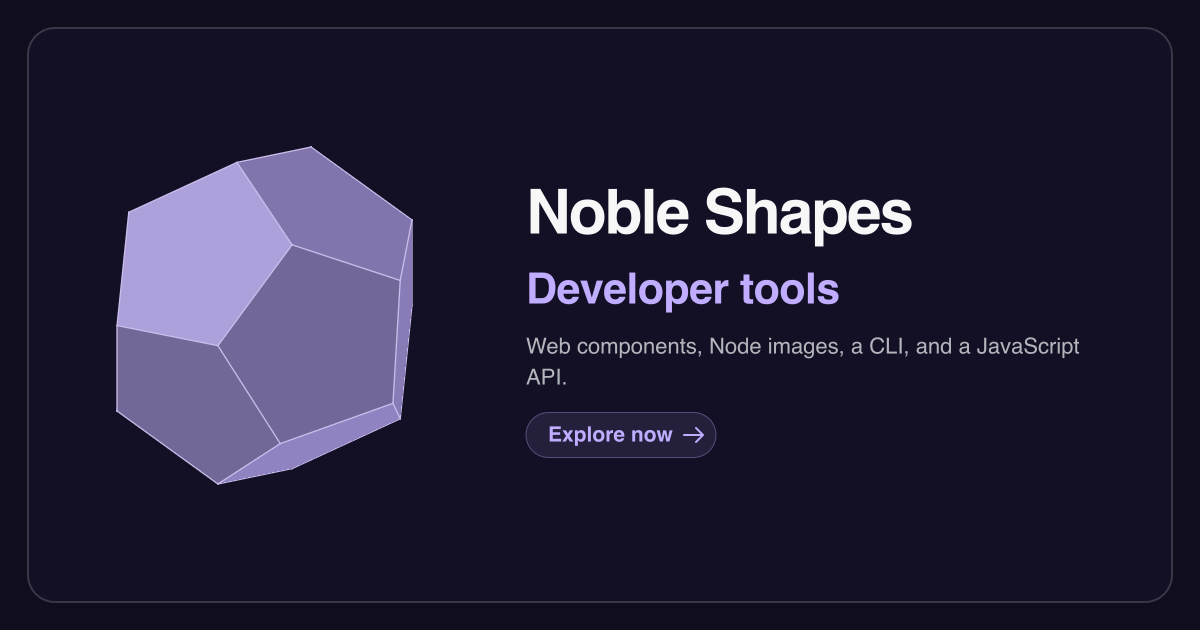
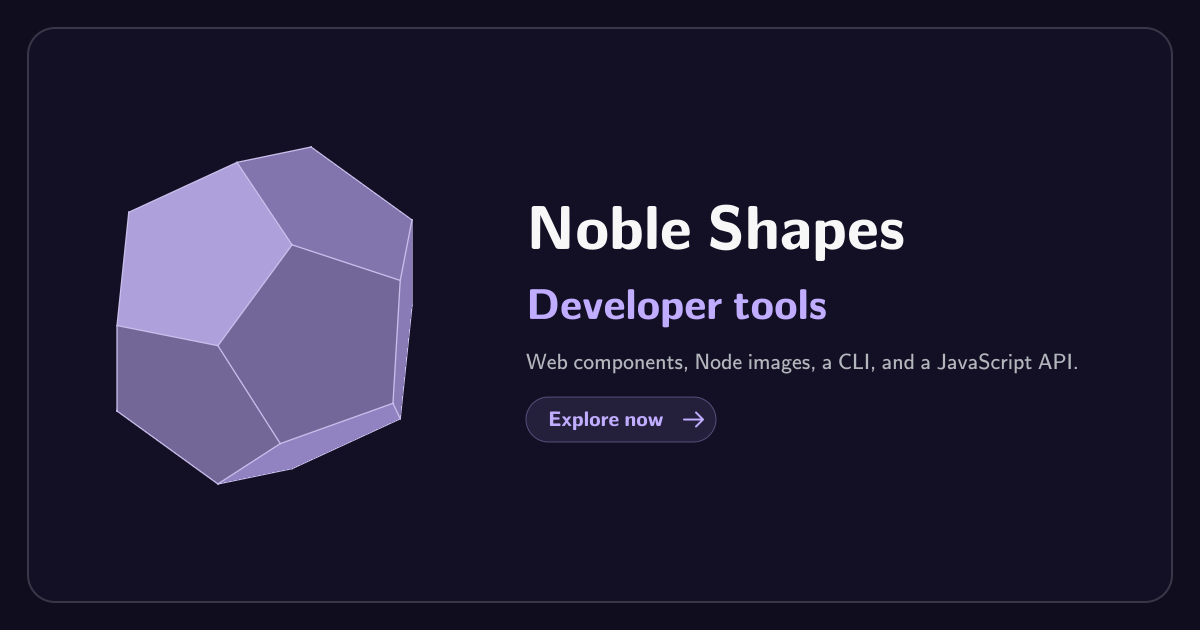
Render social image text as vector paths

Changed region(s): [[0.4317, 0.3016, 0.7708, 0.5127], [0.4317, 0.5429, 0.8942, 0.7238]]

diff --git a/apps/workbench/src/server/og-card.ts b/apps/workbench/src/server/og-card.ts
@@ -1,4 +1,5 @@
 import sharp from "sharp";
+import opentype, { type Font } from "opentype.js";
 import { SHAPES } from "@noble-shapes/core";
 import { renderPng } from "@noble-shapes/node";
 import { DEFAULT_DESIGN_OPTIONS, PALETTES, type DesignOptions } from "@noble-shapes/render";
@@ -6,6 +7,12 @@ import { OG_FONT_BOLD, OG_FONT_REGULAR } from "./og-fonts.ts";
 
 const WIDTH = 1200;
 const HEIGHT = 630;
+function parseFont(data: string): Font {
+  const bytes = Buffer.from(data, "base64");
+  return opentype.parse(bytes.buffer.slice(bytes.byteOffset, bytes.byteOffset + bytes.byteLength));
+}
+const regularFont = parseFont(OG_FONT_REGULAR);
+const boldFont = parseFont(OG_FONT_BOLD);
 export const PLAYGROUND_DESCRIPTION = "A playground for exploring finite and infinite noble polyhedra.";
 
 export type PageCard = "default" | "create" | "showcase" | "research" | "documentation";
@@ -40,25 +47,29 @@ function isLight(hex: string): boolean {
   return red! * 0.2126 + green! * 0.7152 + blue! * 0.0722 > 0.35;
 }
 
-function textWidth(value: string, fontSize: number): number {
-  return [...value].reduce((width, character) => width + fontSize * (
-    character === " " ? 0.31 : /[ilI.,'!]/.test(character) ? 0.29 : /[MWmw]/.test(character) ? 0.83 : /[A-Z]/.test(character) ? 0.67 : 0.53
-  ), 0);
-}
-
-function wrapText(value: string, fontSize: number, maxWidth: number): string[] {
+function wrapText(value: string, font: Font, fontSize: number, maxWidth: number): string[] {
   const lines: string[] = [];
   for (const word of value.split(/\s+/)) {
     const last = lines.length - 1;
     const candidate = last < 0 ? word : `${lines[last]} ${word}`;
-    if (last >= 0 && textWidth(candidate, fontSize) <= maxWidth) lines[last] = candidate;
+    if (last >= 0 && font.getAdvanceWidth(candidate, fontSize) <= maxWidth) lines[last] = candidate;
     else lines.push(word);
   }
   return lines;
 }
 
-function svgLines(lines: string[], x: number, y: number, lineHeight: number): string {
-  return lines.map((line, index) => `<tspan x="${x}" y="${y + index * lineHeight}">${escapeXml(line)}</tspan>`).join("");
+function svgText(value: string, font: Font, size: number, x: number, y: number, color: string): string {
+  return font.getPaths(value, x, y, size)
+    .map(path => {
+      const data = path.toPathData(2);
+      if (data.includes("NaN")) throw new Error("Open Graph font produced an invalid glyph path");
+      return `<path d="${data}" fill="${escapeXml(color)}"/>`;
+    }).join("");
+}
+
+function svgLayer(content: string): Promise<Buffer> {
+  const svg = Buffer.from(`<svg xmlns="http://www.w3.org/2000/svg" width="${WIDTH}" height="${HEIGHT}">${content}</svg>`);
+  return sharp(svg).png().toBuffer();
 }
 
 /** A profile-style card shared by page images and encoded design previews. */
@@ -70,9 +81,9 @@ export async function renderOgCard(design: DesignOptions, title: string, subtitl
   const heading = light ? "#162027" : "#f7f7f8";
   const muted = light ? "#4e5860" : "#b3b7bd";
   const accentSize = subtitle ? 43 : 36;
-  const accentLines = wrapText(title, accentSize, 605);
+  const accentLines = wrapText(title, boldFont, accentSize, 605);
   const subtitleSize = 22;
-  const subtitleLines = subtitle ? wrapText(subtitle, subtitleSize, 600) : [];
+  const subtitleLines = subtitle ? wrapText(subtitle, regularFont, subtitleSize, 600) : [];
   const brandHeight = 74;
   const accentHeight = accentLines.length * 52;
   const subtitleHeight = subtitleLines.length * 31;
@@ -89,19 +100,20 @@ export async function renderOgCard(design: DesignOptions, title: string, subtitl
     <rect x="28" y="28" width="1144" height="574" rx="27" fill="${background}" stroke="${border}" stroke-width="2"/>
   </svg>`);
   const shape = Buffer.from(renderPng({ ...design, background: "transparent", width: 475, height: 475, quality: 1 }));
-  const foreground = Buffer.from(`<svg xmlns="http://www.w3.org/2000/svg" width="${WIDTH}" height="${HEIGHT}">
-    <style>
-      @font-face { font-family: NobleCard; src: url(data:font/ttf;base64,${OG_FONT_REGULAR}) format("truetype"); font-weight: 400; }
-      @font-face { font-family: NobleCard; src: url(data:font/ttf;base64,${OG_FONT_BOLD}) format("truetype"); font-weight: 700; }
-    </style>
-    <text x="526" y="${brandY}" fill="${heading}" font-family="NobleCard" font-size="62" font-weight="700" letter-spacing="-2">Noble Shapes</text>
-    <text fill="${escapeXml(design.color)}" font-family="NobleCard" font-size="${accentSize}" font-weight="700" letter-spacing="-.6">${svgLines(accentLines, 526, accentY, 52)}</text>
-    ${subtitle ? `<text fill="${muted}" font-family="NobleCard" font-size="${subtitleSize}" font-weight="400">${svgLines(subtitleLines, 526, subtitleY, 31)}</text>` : ""}
+  const badge = await svgLayer(`
     <rect x="526" y="${badgeY}" width="190" height="${badgeHeight}" rx="22.5" fill="${escapeXml(design.color)}" fill-opacity=".1" stroke="${escapeXml(design.color)}" stroke-opacity=".36"/>
-    <text x="548" y="${badgeY + 29}" fill="${escapeXml(design.color)}" font-family="NobleCard" font-size="21" font-weight="700">Explore now</text>
     <path d="M684 ${badgeY + 22.5}h19m-7-7 7 7-7 7" fill="none" stroke="${escapeXml(design.color)}" stroke-width="2" stroke-linecap="round" stroke-linejoin="round"/>
-  </svg>`);
-  return sharp(backdrop).composite([{ input: shape, left: 27, top: 78 }, { input: foreground, left: 0, top: 0 }]).png().toBuffer();
+  `);
+  const textLayers = await Promise.all([
+    svgText("Noble Shapes", boldFont, 62, 526, brandY, heading),
+    ...accentLines.map((line, index) => svgText(line, boldFont, accentSize, 526, accentY + index * 52, design.color)),
+    ...subtitleLines.map((line, index) => svgText(line, regularFont, subtitleSize, 526, subtitleY + index * 31, muted)),
+    svgText("Explore now", boldFont, 21, 548, badgeY + 29, design.color),
+  ].map(svgLayer));
+  return sharp(backdrop).composite([
+    { input: shape, left: 27, top: 78 }, { input: badge, left: 0, top: 0 },
+    ...textLayers.map(input => ({ input, left: 0, top: 0 })),
+  ]).png().toBuffer();
 }
 
 export function shapeName(design: DesignOptions): string {
